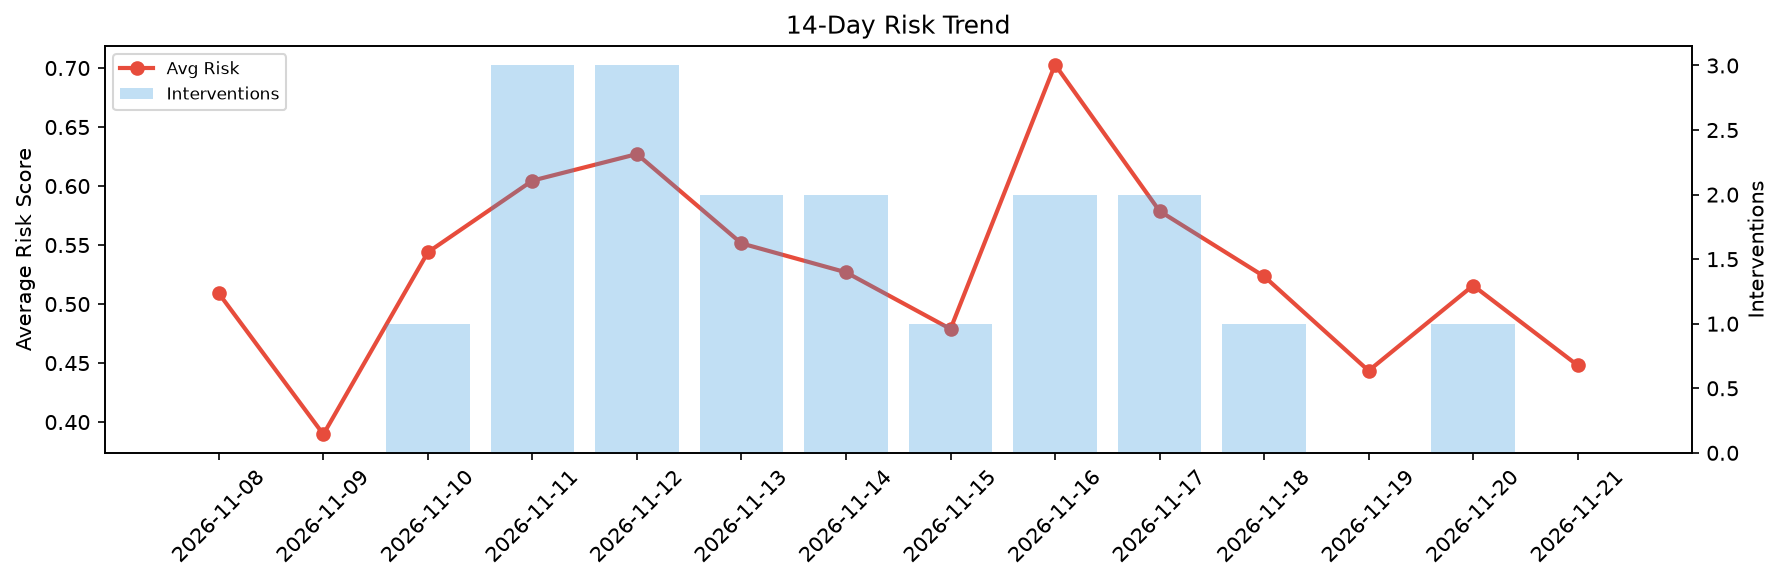
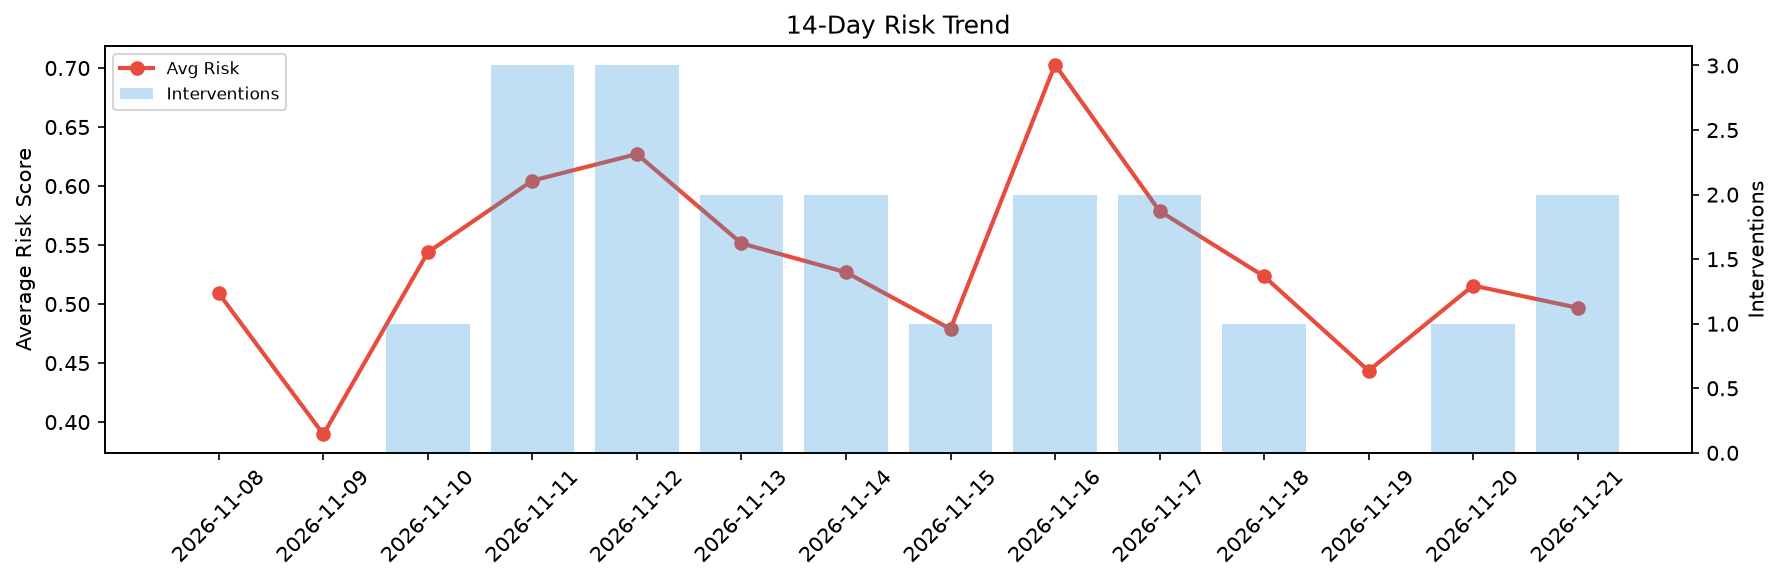
agent-improvement: daily cycle 2026-11-21T20:31

Changed region(s): [[0.8329, 0.3093, 0.9254, 0.8041]]

diff --git a/logs/2026-11-21.md b/logs/2026-11-21.md
@@ -1,6 +1,6 @@
 # Agent Improvement Report — 2026-11-21
 
-**Cycle ID:** `37885b2b` | **Avg Risk:** 0.4481 | **Interventions:** 0/4
+**Cycle ID:** `985879a5` | **Avg Risk:** 0.4968 | **Interventions:** 2/4
 
 ![Dashboard](2026-11-21_dashboard.png)
 
@@ -10,18 +10,18 @@
 
 | Domain | Risk Score | Decision | Alerts |
 |--------|-----------|----------|--------|
-| code_review | 0.5432 | monitor | complexity |
-| incident_response | 0.4302 | monitor | none |
-| data_pipeline | 0.4605 | monitor | none |
-| deployment | 0.3586 | monitor | none |
+| code_review | 0.6677 | intervene | complexity |
+| incident_response | 0.6365 | intervene | none |
+| data_pipeline | 0.3733 | monitor | volume_anomaly |
+| deployment | 0.3096 | monitor | latency_p99 |
 
 ## Delta vs Yesterday
 
 | Domain | Today | Yesterday | Change |
 |--------|-------|-----------|--------|
-| code_review | 0.5432 | 0.6305 | 📉 -13.8% |
-| incident_response | 0.4302 | 0.5276 | 📉 -18.5% |
-| data_pipeline | 0.4605 | 0.5507 | 📉 -16.4% |
-| deployment | 0.3586 | 0.3542 | 📈 1.2% |
+| code_review | 0.6677 | 0.6305 | 📈 5.9% |
+| incident_response | 0.6365 | 0.5276 | 📈 20.6% |
+| data_pipeline | 0.3733 | 0.5507 | 📉 -32.2% |
+| deployment | 0.3096 | 0.3542 | 📉 -12.6% |
 
 **Refinement:** `{'adjustment': 'maintain', 'trend': 'improving', 'window': 4}`
